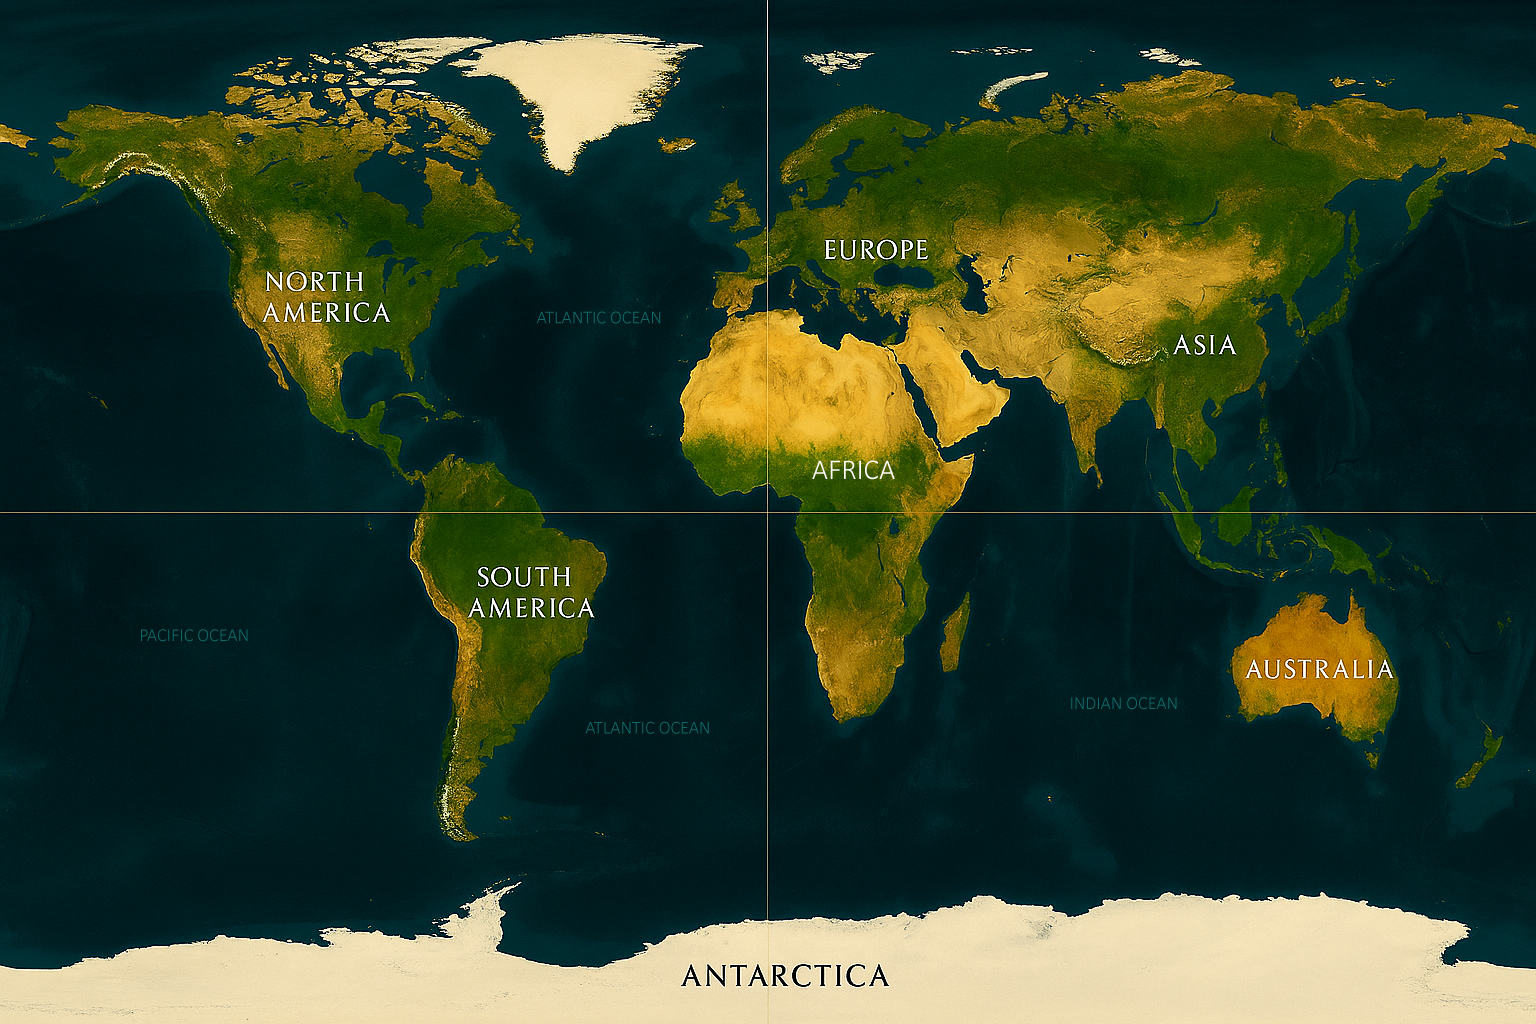
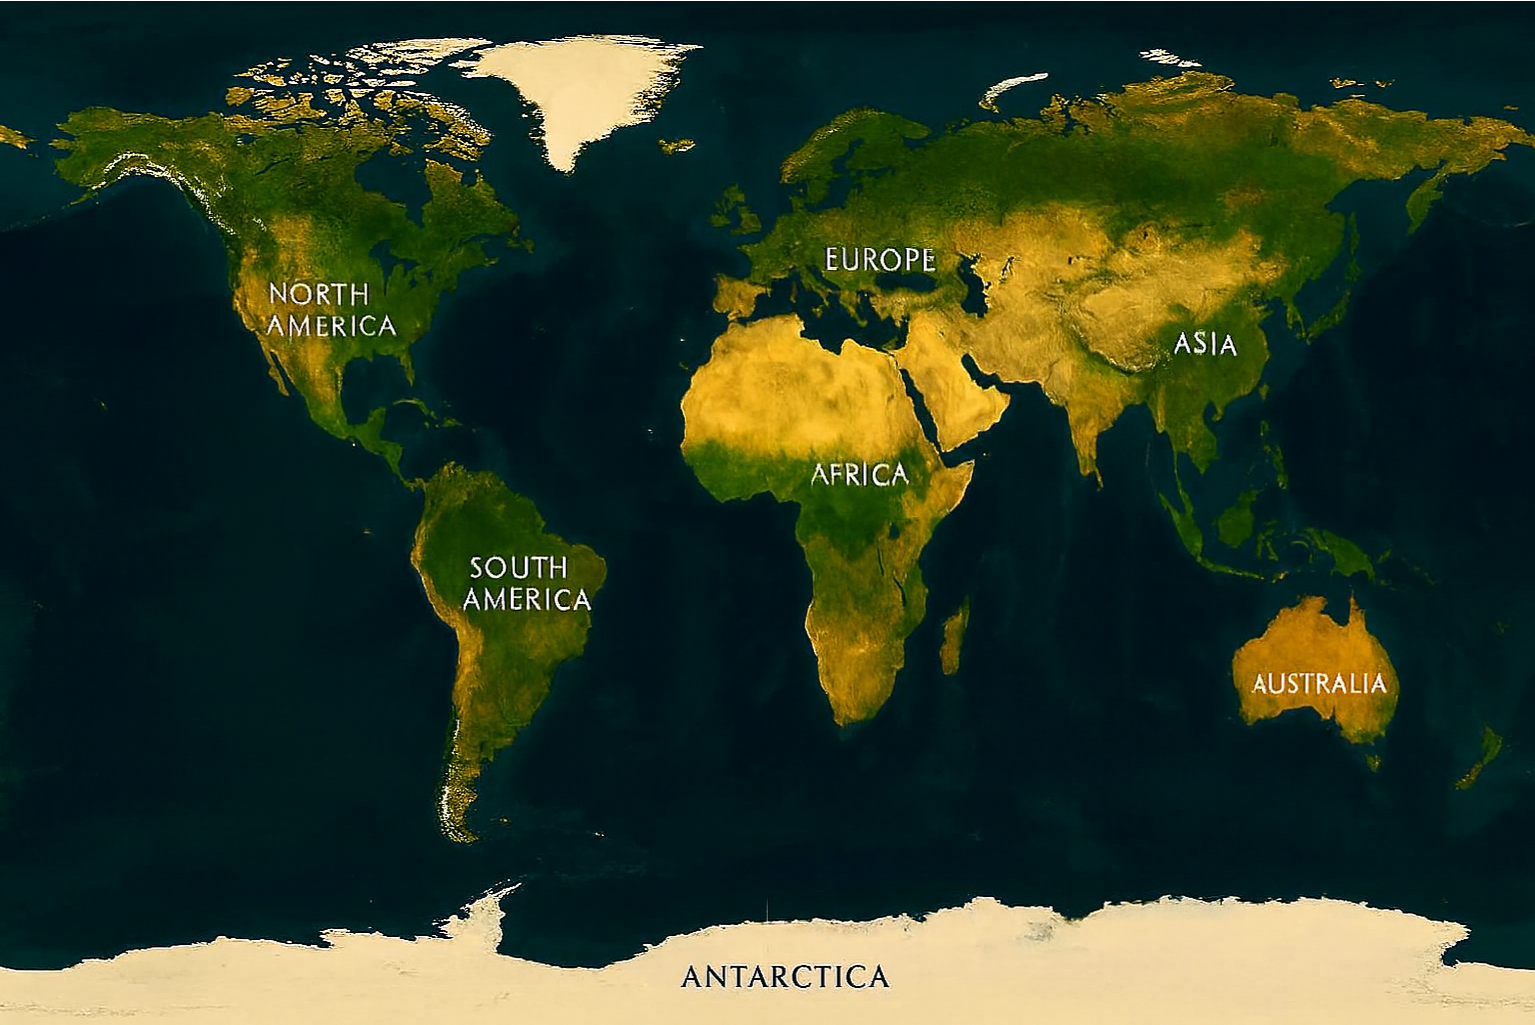
background changed again, and width of the container reduced to 380px to make it more compact.

diff --git a/css/style.css b/css/style.css
@@ -721,8 +721,7 @@ p {
   margin-top: 10px;
   scroll-behavior: smooth;
   color: rgba(255, 255, 255, 0.9);
-  max-width: 450px;
-  width: 450px;
+  width: 380px;
   margin-left: auto;
   margin-right: auto;
 }
